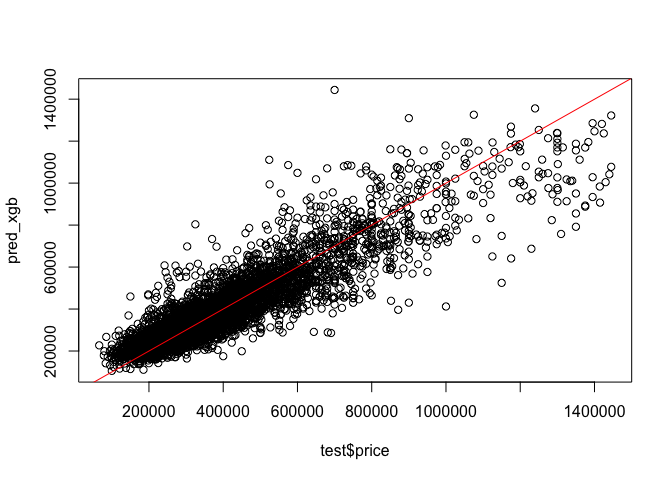
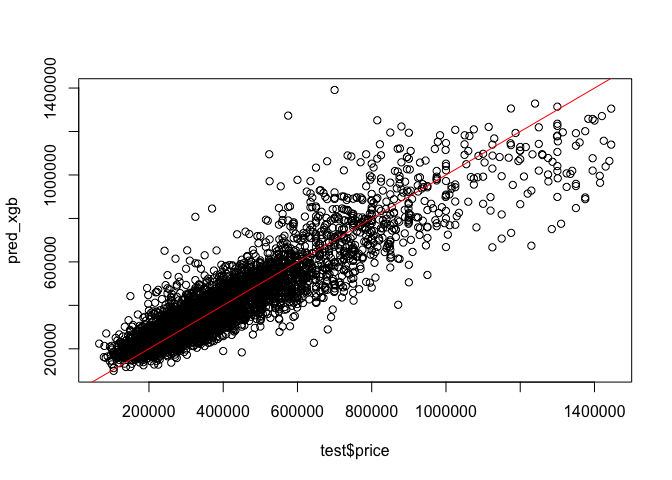
Included lat/lon

diff --git a/modeling/modeling.md b/modeling/modeling.md
@@ -49,8 +49,8 @@ df <- subset(df,select = -c(zpid
                    ,year_built
                    ,description
                    ,photo_count
-                   ,longitude
-                   ,latitude
+                   #,longitude
+                   #,latitude
                    ,neighborhood
                    ,address_state
                    ,address_city
@@ -120,13 +120,13 @@ test = df[-parts, ]
 dim(train)
 ```
 
-    ## [1] 23207    31
+    ## [1] 23207    33
 
 ``` r
 dim(test)
 ```
 
-    ## [1] 5801   31
+    ## [1] 5801   33
 
 ``` r
 # linear model training
@@ -140,47 +140,49 @@ summary(model_lm)
     ## 
     ## Residuals:
     ##      Min       1Q   Median       3Q      Max 
-    ## -1.26566 -0.12557  0.00309  0.13734  1.28286 
+    ## -1.28740 -0.12458  0.00355  0.13620  1.25628 
     ## 
     ## Coefficients:
     ##                  Estimate Std. Error t value Pr(>|t|)    
-    ## (Intercept)      8.436791   0.049452 170.604  < 2e-16 ***
-    ## bedrooms        -0.023794   0.008397  -2.834  0.00461 ** 
-    ## bathrooms        0.182758   0.005995  30.483  < 2e-16 ***
-    ## living_area      0.600369   0.007249  82.819  < 2e-16 ***
-    ## lot_size         0.029067   0.002456  11.835  < 2e-16 ***
-    ## downtown_dist   -0.034930   0.001019 -34.284  < 2e-16 ***
-    ## condo           -0.065813   0.006350 -10.365  < 2e-16 ***
-    ## townhouse       -0.099901   0.007170 -13.934  < 2e-16 ***
-    ## neighborhood_2  -0.327735   0.010262 -31.935  < 2e-16 ***
-    ## neighborhood_3  -0.314266   0.012059 -26.061  < 2e-16 ***
-    ## neighborhood_4   0.018517   0.015342   1.207  0.22746    
-    ## neighborhood_5  -0.160811   0.009814 -16.386  < 2e-16 ***
-    ## neighborhood_6  -0.383310   0.011361 -33.738  < 2e-16 ***
-    ## neighborhood_7  -0.189173   0.013010 -14.541  < 2e-16 ***
-    ## neighborhood_8  -0.435554   0.010520 -41.404  < 2e-16 ***
-    ## neighborhood_9  -0.338777   0.013775 -24.594  < 2e-16 ***
-    ## neighborhood_10 -0.425866   0.011858 -35.915  < 2e-16 ***
-    ## neighborhood_11 -0.212172   0.012399 -17.112  < 2e-16 ***
-    ## neighborhood_12 -0.482208   0.011643 -41.415  < 2e-16 ***
-    ## neighborhood_13 -0.612347   0.014824 -41.307  < 2e-16 ***
-    ## neighborhood_14 -0.332129   0.012948 -25.651  < 2e-16 ***
-    ## neighborhood_15 -0.529689   0.012725 -41.625  < 2e-16 ***
-    ## neighborhood_16 -0.207629   0.010640 -19.514  < 2e-16 ***
-    ## neighborhood_17 -0.021011   0.011557  -1.818  0.06907 .  
-    ## neighborhood_18 -0.166906   0.010382 -16.077  < 2e-16 ***
-    ## neighborhood_19  0.064088   0.012731   5.034 4.84e-07 ***
-    ## neighborhood_20 -0.435233   0.010900 -39.931  < 2e-16 ***
-    ## neighborhood_21  0.062042   0.013626   4.553 5.31e-06 ***
-    ## neighborhood_22 -0.462511   0.039612 -11.676  < 2e-16 ***
-    ## neighborhood_23 -0.072716   0.016698  -4.355 1.34e-05 ***
-    ## neighborhood_24  0.091196   0.041941   2.174  0.02969 *  
+    ## (Intercept)     94.106641   5.929289  15.871  < 2e-16 ***
+    ## bedrooms        -0.014173   0.008347  -1.698  0.08953 .  
+    ## bathrooms        0.184609   0.005948  31.035  < 2e-16 ***
+    ## living_area      0.584003   0.007251  80.540  < 2e-16 ***
+    ## lot_size         0.033952   0.002449  13.866  < 2e-16 ***
+    ## downtown_dist   -0.044160   0.001119 -39.450  < 2e-16 ***
+    ## longitude        0.383294   0.061343   6.248 4.22e-10 ***
+    ## latitude        -1.447952   0.078303 -18.492  < 2e-16 ***
+    ## condo           -0.061432   0.006302  -9.748  < 2e-16 ***
+    ## townhouse       -0.099941   0.007112 -14.053  < 2e-16 ***
+    ## neighborhood_2  -0.404181   0.011516 -35.097  < 2e-16 ***
+    ## neighborhood_3  -0.246649   0.012804 -19.263  < 2e-16 ***
+    ## neighborhood_4   0.032218   0.015556   2.071  0.03836 *  
+    ## neighborhood_5  -0.086402   0.010487  -8.239  < 2e-16 ***
+    ## neighborhood_6  -0.303462   0.018345 -16.542  < 2e-16 ***
+    ## neighborhood_7  -0.284903   0.013899 -20.498  < 2e-16 ***
+    ## neighborhood_8  -0.303923   0.013631 -22.297  < 2e-16 ***
+    ## neighborhood_9  -0.345714   0.014757 -23.428  < 2e-16 ***
+    ## neighborhood_10 -0.517086   0.014966 -34.550  < 2e-16 ***
+    ## neighborhood_11 -0.142654   0.016353  -8.723  < 2e-16 ***
+    ## neighborhood_12 -0.277996   0.018730 -14.843  < 2e-16 ***
+    ## neighborhood_13 -0.466528   0.016511 -28.256  < 2e-16 ***
+    ## neighborhood_14 -0.161126   0.020726  -7.774 7.91e-15 ***
+    ## neighborhood_15 -0.571895   0.015615 -36.624  < 2e-16 ***
+    ## neighborhood_16 -0.097357   0.014517  -6.707 2.04e-11 ***
+    ## neighborhood_17  0.014507   0.011801   1.229  0.21896    
+    ## neighborhood_18 -0.106298   0.012861  -8.265  < 2e-16 ***
+    ## neighborhood_19  0.052064   0.012854   4.050 5.13e-05 ***
+    ## neighborhood_20 -0.388182   0.015242 -25.468  < 2e-16 ***
+    ## neighborhood_21  0.074063   0.013656   5.423 5.91e-08 ***
+    ## neighborhood_22 -0.138655   0.043578  -3.182  0.00147 ** 
+    ## neighborhood_23 -0.137182   0.016961  -8.088 6.36e-16 ***
+    ## neighborhood_24  0.132321   0.041863   3.161  0.00158 ** 
     ## ---
     ## Signif. codes:  0 '***' 0.001 '**' 0.01 '*' 0.05 '.' 0.1 ' ' 1
     ## 
-    ## Residual standard error: 0.2187 on 23176 degrees of freedom
-    ## Multiple R-squared:  0.7721, Adjusted R-squared:  0.7718 
-    ## F-statistic:  2617 on 30 and 23176 DF,  p-value: < 2.2e-16
+    ## Residual standard error: 0.2169 on 23174 degrees of freedom
+    ## Multiple R-squared:  0.7758, Adjusted R-squared:  0.7755 
+    ## F-statistic:  2506 on 32 and 23174 DF,  p-value: < 2.2e-16
 
 ``` r
 # linear regression prediction and error
@@ -189,7 +191,7 @@ rmse_lm <- sqrt(sum((exp(pred_lm) - test$price)^2)/length(test$price))
 rmse_lm
 ```
 
-    ## [1] 93424.88
+    ## [1] 92470.04
 
 ``` r
 # plot
@@ -235,7 +237,7 @@ rmse_xgb <- caret::RMSE(test_y, pred_xgb)
 rmse_xgb
 ```
 
-    ## [1] 87721.23
+    ## [1] 83745.88
 
 ``` r
 # plot
@@ -247,11 +249,11 @@ abline(coef = c(0, 1), c = 'red')
 
 # Comparison
 
-XGBoost results in a 6% reduction in RMSE.
+XGBoost results in a 9% reduction in RMSE.
 
 ``` r
 # performance comparison
 1 - rmse_xgb/rmse_lm
 ```
 
-    ## [1] 0.06105061
+    ## [1] 0.09434581
